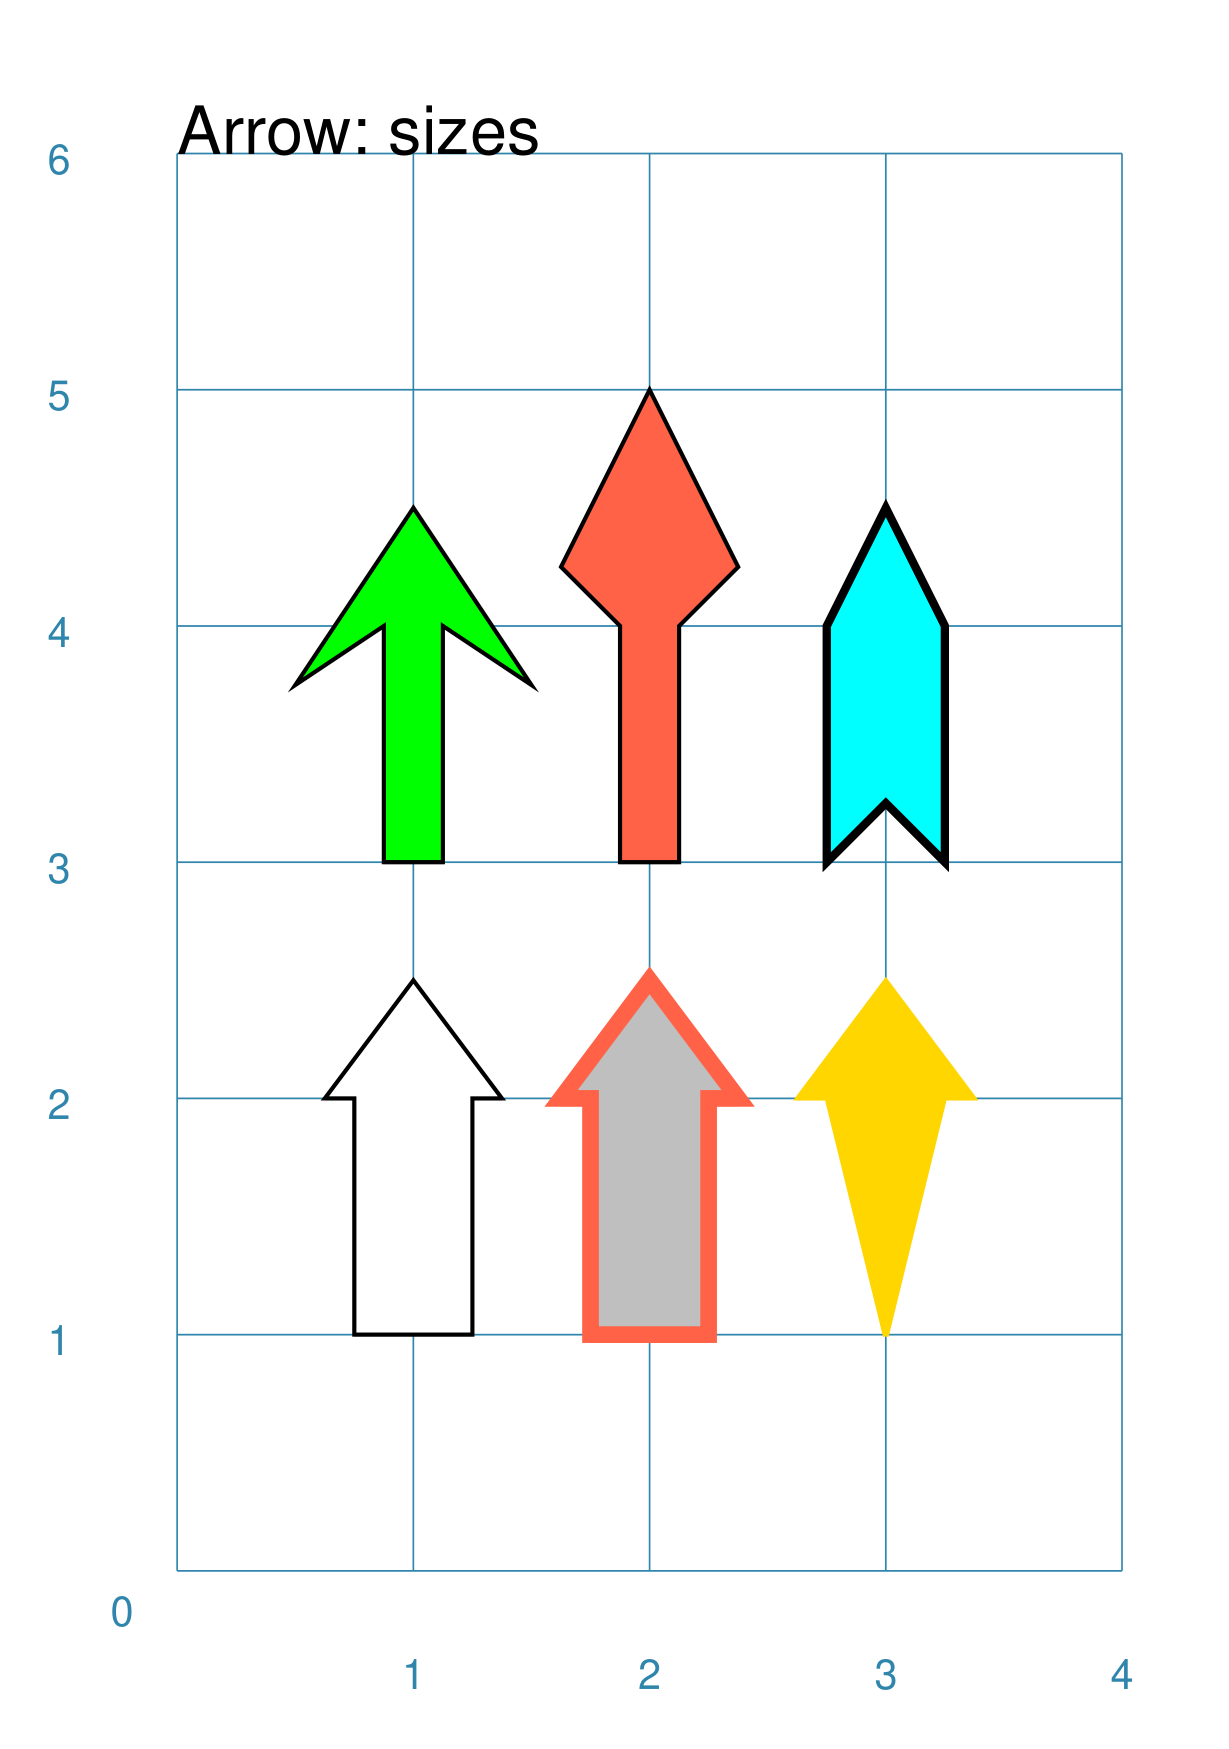
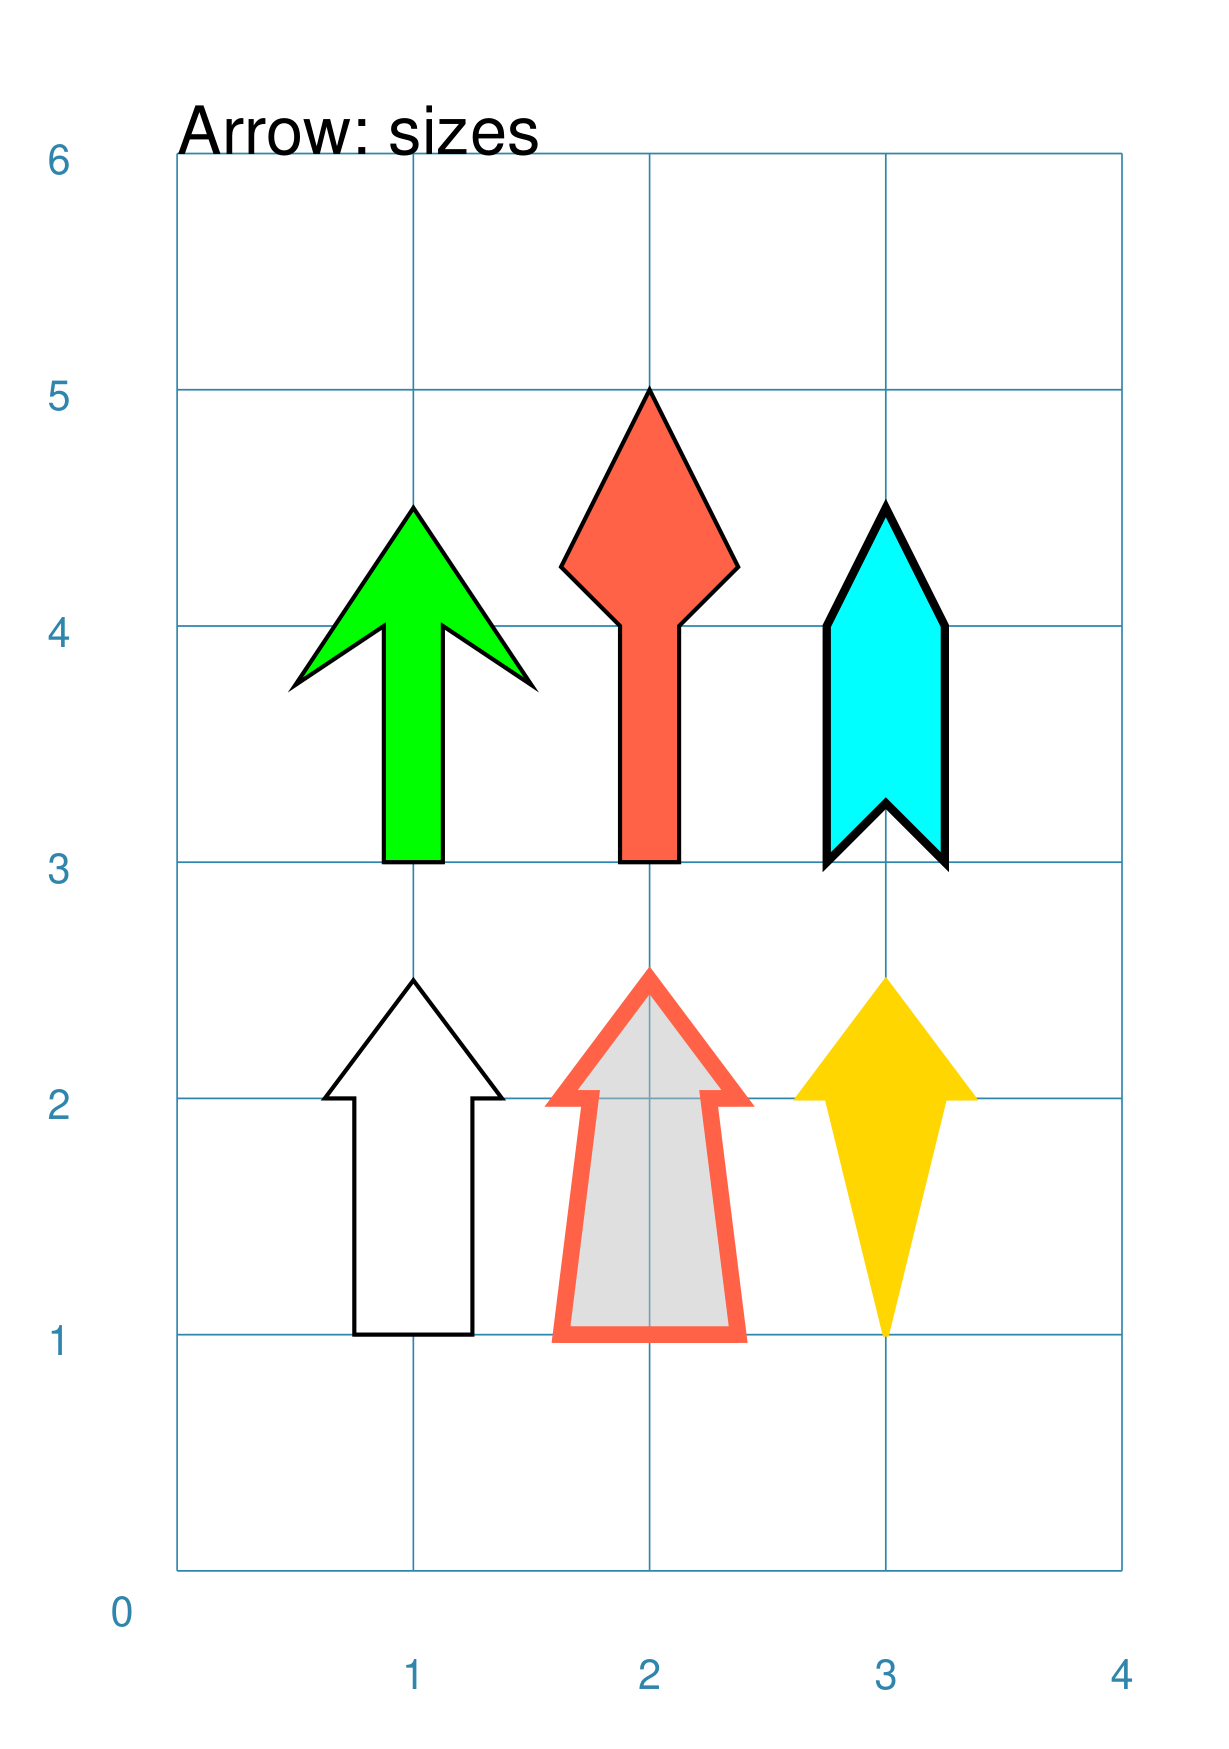
Update example for Arrow customisation

Changed region(s): [[0.4329, 0.5557, 0.6184, 0.7719]]

diff --git a/examples/simple/customised_shapes.py b/examples/simple/customised_shapes.py
@@ -491,8 +491,8 @@ PageBreak()
 Blueprint()
 Text(common=txt, text="Arrow: sizes")
 Arrow(x=1, y=1, height=1, width=0.5, head_height=0.5, head_width=0.75)
-Arrow(x=2, y=1, height=1, width=0.5, head_height=0.5, head_width=0.75,
-      stroke=tomato, fill=silver, stroke_width=2)
+Arrow(x=2, y=1, height=1, width=0.5, head_height=0.5, head_width=0.75, tail_width=0.75,
+      stroke=tomato, fill=silver, stroke_width=2, transparency=50)
 Arrow(x=3, y=1, height=1, width=0.5, head_height=0.5, head_width=0.75, tail_width=0.01,
       fill_stroke=gold)
 Arrow(x=1, y=3, height=1, width=0.25, head_height=0.5, head_width=1, points_offset=-0.25,
